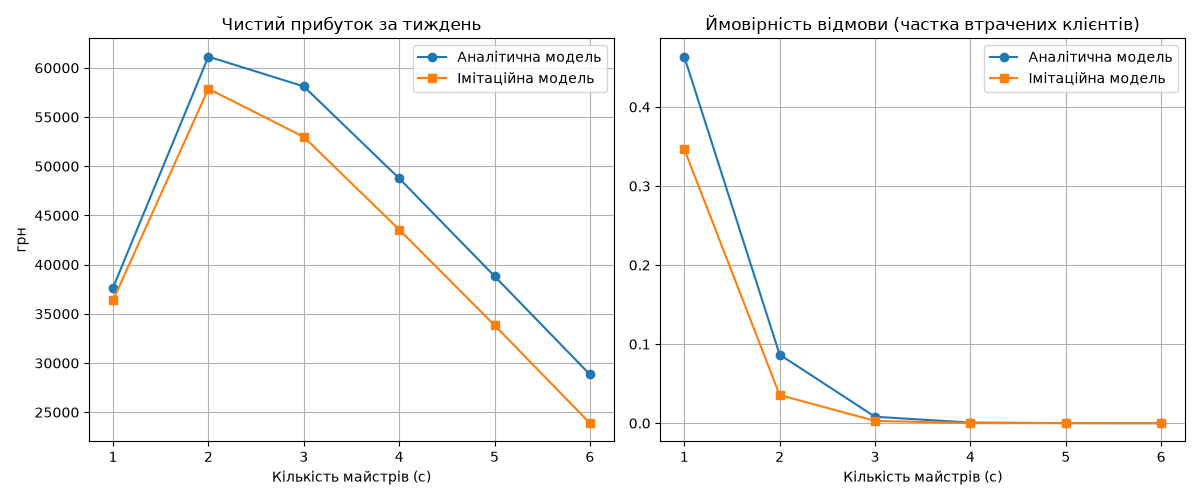
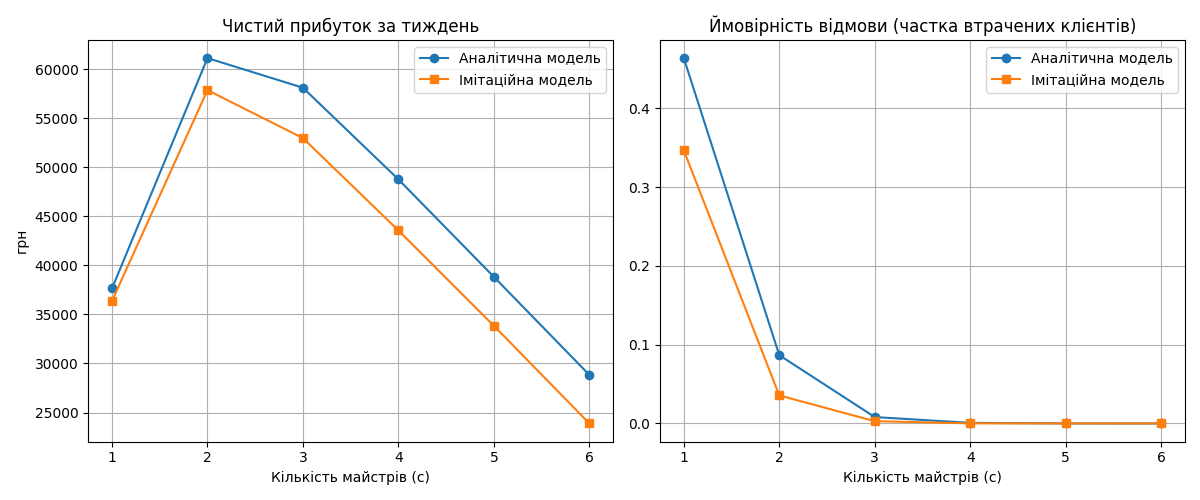
changes

diff --git a/analytic_model.py b/analytic_model.py
@@ -6,47 +6,97 @@ LAMBDA = sum((end - start) * lam for start, end, lam in PERIODS) / HOURS_PER_DAY
 MU = 1 / sum(probability * meanTime for name, probability, cost, meanTime in CATEGORIES)
 MEAN_COST = sum(probability * cost for name, probability, cost, meanTime in CATEGORIES)
 
-def analyticModel(c, lam=LAMBDA, mu=MU, m=QUEUE_LIMIT):
+
+def calculate_load(c, lam=LAMBDA, mu=MU):
     r = lam / mu
     rho = r / c
-    a = r ** c / factorial(c)
+    return r, rho
 
+
+def calculate_q0(c, m, r, rho):
+    a = (r ** c) / factorial(c)
+    sum_channels = sum((r ** k) / factorial(k) for k in range(c))
+    
     if rho != 1:
-        q0 = 1 / (sum(r ** k / factorial(k) for k in range(c)) + a * (1 - rho ** (m + 1)) / (1 - rho))
-        pQueue = a * (1 - rho ** m) / (1 - rho) * q0
-        lq = a * rho * (1 - rho ** m - m * rho ** m * (1 - rho)) / (1 - rho) ** 2 * q0
+        sum_queue = a * ((1 - rho ** (m + 1)) / (1 - rho))
     else:
-        q0 = 1 / (sum(r ** k / factorial(k) for k in range(c)) + a * (m + 1))
-        pQueue = a * m * q0
-        lq = a * m * (m + 1) / 2 * q0
+        sum_queue = a * (m + 1)
+        
+    q0 = 1 / (sum_channels + sum_queue)
+    return q0
 
-    pRefusal = a * rho ** m * q0
+
+def calculate_probabilities(c, m, r, rho, q0):
+    a = (r ** c) / factorial(c)
+    
+    if rho != 1:
+        pQueue = a * ((1 - rho ** m) / (1 - rho)) * q0
+    else:
+        pQueue = a * m * q0
+
+    pRefusal = a * (rho ** m) * q0
+    
     Q = 1 - pRefusal
+    return pQueue, pRefusal, Q
+
+
+def calculate_queue_and_time(c, m, r, rho, q0, lam, mu, Q):
+    a = (r ** c) / factorial(c)
+    
+    if rho != 1:
+        lq = a * rho * (1 - rho ** m - m * (rho ** m) * (1 - rho)) / ((1 - rho) ** 2) * q0
+    else:
+        lq = a * m * (m + 1) / 2 * q0
+        
     A = lam * Q
     nBusy = A / mu
     ls = lq + nBusy
+    
+    return {
+        "lq": lq,
+        "ls": ls,
+        "nBusy": nBusy,
+        "kBusy": nBusy / c,
+        "Wq": lq / lam if lam > 0 else 0,
+        "Ws": ls / lam if lam > 0 else 0
+    }
 
+
+def calculate_economics(A, c):
+    wage_week = (WAGE / HOURS_PER_DAY) * HOURS_PER_DAY * 5 * c 
+    revenue = STEPS * A * MEAN_COST
+    profit = revenue - wage_week
+    return revenue, profit
+
+def analyticModel(c, lam=LAMBDA, mu=MU, m=QUEUE_LIMIT):
+    r, rho = calculate_load(c, lam, mu)
+    q0 = calculate_q0(c, m, r, rho)
+    pQueue, pRefusal, Q = calculate_probabilities(c, m, r, rho, q0)
+    
+    metrics = calculate_queue_and_time(c, m, r, rho, q0, lam, mu, Q)
+    _, profit = calculate_economics(metrics["nBusy"] * mu, c)
+    
     return {
         "masters": c,
         "q0": q0,
         "pQueue": pQueue,
         "pRefusal": pRefusal,
         "Q": Q,
-        "A": A,
-        "nBusy": nBusy,
-        "nFree": c - nBusy,
-        "kBusy": nBusy / c,
-        "Lq": lq,
-        "Ls": ls,
-        "Wq": lq / lam,
-        "Ws": ls / lam,
-        "profit": (MEAN_COST * A - WAGE / HOURS_PER_DAY * c) * STEPS
+        "A": metrics["nBusy"] * mu,
+        "nBusy": metrics["nBusy"],
+        "nFree": c - metrics["nBusy"],
+        "kBusy": metrics["kBusy"],
+        "Lq": metrics["lq"],
+        "Ls": metrics["ls"],
+        "Wq": metrics["Wq"],
+        "Ws": metrics["Ws"],
+        "profit": profit
     }
 
 
 if __name__ == "__main__":
     pd.set_option("display.width", 200)
-    print(f"lambda = {LAMBDA:.4f} клієнта/год, mu = {MU:.4f} ремонту/год, r = {LAMBDA / MU:.4f}, середня вартість = {MEAN_COST:.0f} грн")
-
+    print(f"lambda = {LAMBDA:.4f} кл/год, mu = {MU:.4f} рем/год, середня вартість = {MEAN_COST:.0f} грн")
+    
     table = pd.DataFrame([analyticModel(c) for c in range(1, 7)])
     print(table.round(4).to_string(index=False))

diff --git a/compare.py b/compare.py
@@ -20,9 +20,9 @@ pd.set_option("display.width", 200)
 print("Порівняння аналітичної (A) та імітаційної (S) моделей")
 print(table.round(3).to_string(index=False))
 
-assert table.profitA.idxmax() == table.profitS.idxmax()
 
-fig, (ax1, ax2) = plt.subplots(1, 2, figsize=(12, 5))
+
+fig1, (ax1, ax2) = plt.subplots(1, 2, figsize=(12, 5))
 
 ax1.plot(table.masters, table.profitA, marker="o", label="Аналітична модель")
 ax1.plot(table.masters, table.profitS, marker="s", label="Імітаційна модель")
@@ -41,4 +41,29 @@ ax2.grid(True)
 
 plt.tight_layout()
 plt.savefig("compare_models.png")
+
+plt.show()
+
+fig2, (ax3, ax4) = plt.subplots(1, 2, figsize=(12, 5))
+
+ax3.plot(table.masters, table.utilA, marker="o", label="Аналітична модель", color="#2ca02c")
+ax3.plot(table.masters, table.utilS, marker="s", label="Імітаційна модель", color="#d62728")
+ax3.set_title("Коефіцієнт завантаженості персоналу")
+ax3.set_xlabel("Кількість майстрів (c)")
+ax3.set_ylabel("Завантаженість (0-1)")
+ax3.axhline(y=0.85, color='gray', linestyle='--', alpha=0.7, label="Комфортний рівень (85%)")
+ax3.legend()
+ax3.grid(True)
+
+ax4.plot(table.masters, table.queueA, marker="o", label="Аналітична модель", color="#1f77b4")
+ax4.plot(table.masters, table.queueS, marker="s", label="Імітаційна модель", color="#ff7f0e")
+ax4.set_title("Середня довжина черги")
+ax4.set_xlabel("Кількість майстрів (c)")
+ax4.set_ylabel("Кількість клієнтів у черзі")
+ax4.legend()
+ax4.grid(True)
+
+plt.tight_layout()
+plt.savefig("additional_comparison.png")
+
 plt.show()

diff --git a/test_analytic.py b/test_analytic.py
@@ -1,7 +1,6 @@
 from analytic_model import analyticModel
 
 def test_lectureExample():
-    # приклад з лекції 8: автосервіс, 3 бригади, lambda = 7, t = 0,75 год, m = 4
     r = analyticModel(3, lam=7, mu=1 / 0.75, m=4)
 
     assert round(r["q0"], 6) == 0.001939
